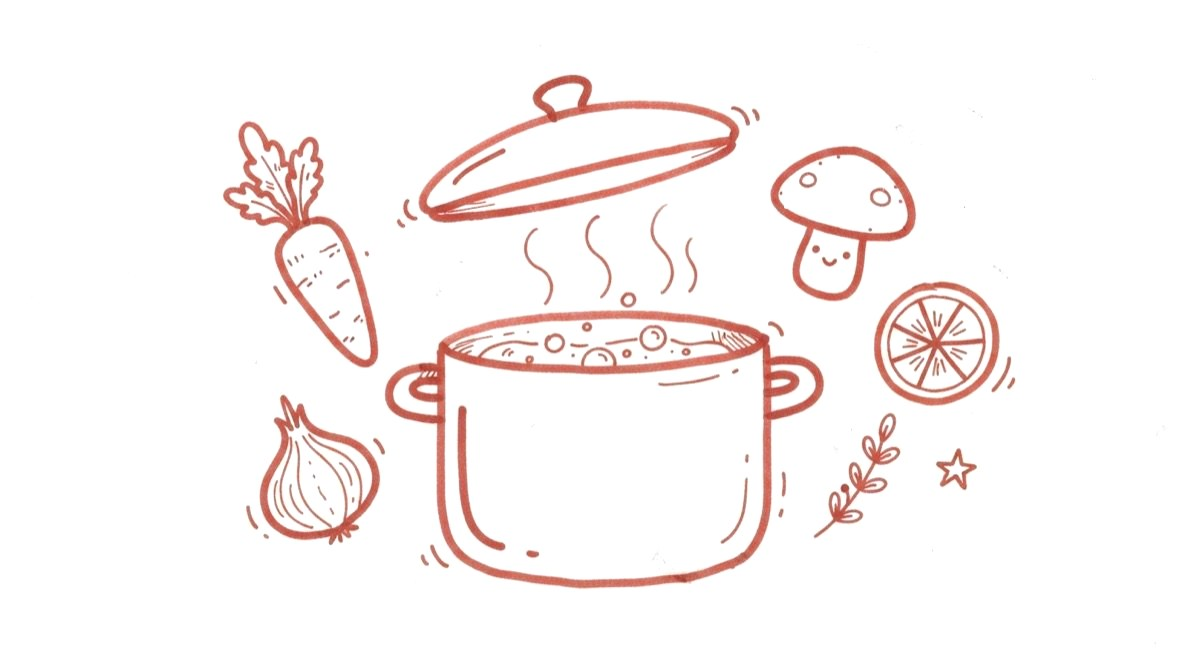
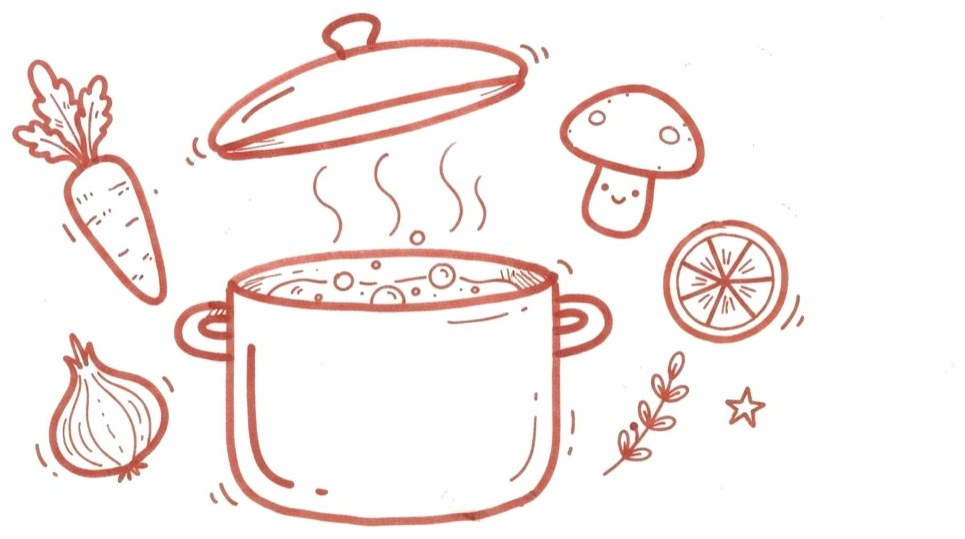
style: double the hero illustration, drop the heart from the wordmark
Crops the blank paper from the scan (the ink filled only 78% of the
canvas) and lets the art bleed to the viewport edge, so the drawing
renders ~686px wide at 1280 against ~364px before — about 2x. The
stacked cap goes 460 -> 720px so narrow screens gain the same.

The bleed is measured from the container, not the grid column: a
percentage margin resolves against the column and overshot by 3.5x.

Also fixes a gutter bug this exposed — `.hero` set `padding: … 0 …`,
which beat `.container` on equal specificity and pushed hero text flush
to the screen edge on anything under 1080px.

Changed region(s): [[0.0311, 0.0, 0.8394, 0.9796], [0.0, 0.0891, 0.1865, 0.564]]

diff --git a/src/index.css b/src/index.css
@@ -301,8 +301,8 @@ ul, ol { list-style: none; }
 
 /* ---------- Hero ---------- */
 
-.hero { padding: 64px 0 20px; }
-.hero__grid { display: grid; grid-template-columns: 1.05fr 0.95fr; gap: 48px; align-items: center; }
+.hero { padding: 64px 24px 20px; }
+.hero__grid { display: grid; grid-template-columns: minmax(0, 430px) minmax(0, 1fr); gap: 40px; align-items: center; }
 .hero__title {
   font-size: 62px; line-height: 1.0; font-weight: 900;
   letter-spacing: -0.02em; margin: 10px 0 18px; text-wrap: balance;
@@ -313,9 +313,17 @@ ul, ol { list-style: none; }
   margin-bottom: 30px; max-width: 34ch;
 }
 .hero__actions { display: flex; gap: 12px; flex-wrap: wrap; }
-.hero-band { background: var(--hero-bg); }
-.hero__art { position: relative; }
-/* Scanned drawing: multiply lets its paper blend into the page ground */
+.hero-band { background: var(--hero-bg); overflow: hidden; }
+/*
+ * The drawing runs out to the viewport edge — its paper is invisible, so the
+ * bleed costs nothing. Measured from the container, not the grid column: a
+ * percentage margin here would resolve against the column and overshoot.
+ */
+.hero__art {
+  position: relative;
+  margin-right: min(0px, calc((var(--wrap) - 100vw) / 2 - 24px));
+}
+/* Scanned drawing: multiply lets its paper blend into the band behind it */
 .hero__img { display: block; width: 100%; height: auto; mix-blend-mode: multiply; }
 .hero__note {
   position: absolute; right: 0; bottom: 6px;
@@ -568,8 +576,10 @@ ul, ol { list-style: none; }
 
 @media (max-width: 1024px) {
   .hero__grid { grid-template-columns: 1fr; gap: 32px; }
+  .hero__art { margin-right: 0; }
+  .hero__img { width: 100%; }
   .hero__title { font-size: 56px; }
-  .hero__art { max-width: 460px; }
+  .hero__art { max-width: 720px; margin-inline: auto; }
   .detail__body { grid-template-columns: 1fr; gap: 36px; }
   .detail__aside { position: static; }
   .detail__title { font-size: 46px; }
@@ -584,7 +594,7 @@ ul, ol { list-style: none; }
 @media (max-width: 780px) {
   .container { padding: 0 18px; }
   .site-header__inner { padding: 12px 18px; }
-  .hero { padding: 40px 0 12px; }
+  .hero { padding: 40px 18px 12px; }
   .hero__title { font-size: 42px; }
   .hero__lede { font-size: 19px; }
   .section-title { font-size: 30px; }

diff --git a/src/components/Header.tsx b/src/components/Header.tsx
@@ -1,7 +1,7 @@
 import React, { useState, useEffect, useRef } from 'react';
 import { Search, Heart, Menu, X, ChevronDown } from 'lucide-react';
 import { RECIPES, CATEGORIES, Recipe } from '../data/recipes';
-import { CategoryIcon, BookMark } from './Illustrations';
+import { CategoryIcon } from './Illustrations';
 
 interface HeaderProps {
   currentView: string;
@@ -59,7 +59,6 @@ export const Header: React.FC<HeaderProps> = ({ currentView, onNavigate, favorit
       <div className="site-header__inner">
         {/* Brand */}
         <div className="brand" onClick={() => onNavigate('home')}>
-          <BookMark />
           <div>
             <span className="brand__name">Семейные Рецепты</span>
             <span className="brand__tag">кулинарная книга нашей семьи</span>
